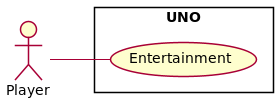
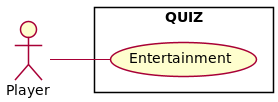
updated to quiz

Changed region(s): [[0.5755, 0.1176, 0.7482, 0.2353]]

diff --git a/asciidocs/index.html b/asciidocs/index.html
@@ -457,12 +457,11 @@ body.book #toc,body.book #preamble,body.book h1.sect0,body.book .sect1>h2{page-b
 <li><a href="#_projektbeschreibung">6. Projektbeschreibung</a></li>
 <li><a href="#_meilensteine">7. Meilensteine</a>
 <ul class="sectlevel2">
-<li><a href="#_uno_core">7.1. UNO Core:</a></li>
-<li><a href="#_ui_design">7.2. UI Design</a></li>
-<li><a href="#_ui_code">7.3. UI Code</a></li>
-<li><a href="#_statistik_datenbank">7.4. Statistik Datenbank</a></li>
-<li><a href="#_farbenblinden_modus">7.5. Farbenblinden Modus (+)</a></li>
-<li><a href="#_verschiedene_spielmodi">7.6. Verschiedene Spielmodi (+)</a></li>
+<li><a href="#_recherche">7.1. Recherche</a></li>
+<li><a href="#_logik_umsetzung">7.2. Logik umsetzung</a></li>
+<li><a href="#_ui_design">7.3. UI Design</a></li>
+<li><a href="#_ui_code">7.4. UI Code</a></li>
+<li><a href="#_statistik_datenbank">7.5. Statistik Datenbank</a></li>
 </ul>
 </li>
 <li><a href="#_projektressourcen">8. Projektressourcen</a></li>
@@ -499,7 +498,7 @@ body.book #toc,body.book #preamble,body.book h1.sect0,body.book .sect1>h2{page-b
 <h2 id="_projektbezeichnung">1. Projektbezeichnung</h2>
 <div class="sectionbody">
 <div class="paragraph">
-<p>UNO Kartenspiel</p>
+<p>Quiz</p>
 </div>
 </div>
 </div>
@@ -525,8 +524,8 @@ HTL Leonding</p>
 <h2 id="_projektendergebnis">4. Projektendergebnis</h2>
 <div class="sectionbody">
 <div class="paragraph">
-<p>Alle Regeln des UNO-Spieles sollten eingehalten werden, und dass Programm soll fair gehalten werden.
-Ein Nebenergebnis des Spieles ist strategisches und taktisches Denken.</p>
+<p>Das Spiel soll informationsreich sein und Spaß machen.
+Ein Nebenergebnis des Spieles ist Aufmerksamkeit auf unsere Umwelt zu machen, denn die Fragen im Quiz beziehen sich darauf.</p>
 </div>
 </div>
 </div>
@@ -534,7 +533,7 @@ Ein Nebenergebnis des Spieles ist strategisches und taktisches Denken.</p>
 <h2 id="_projektziel">5. Projektziel</h2>
 <div class="sectionbody">
 <div class="paragraph">
-<p>Ein funktionierendes UNO-Program, dass dem Spieler Spaß und Unterhaltung bietet.</p>
+<p>Ein funktionierendes Quiz, dass dem Spieler Spaß, Unterhaltung und Informationen bietet.</p>
 </div>
 <div class="paragraph">
 <p>Ziele:</p>
@@ -542,19 +541,13 @@ Ein Nebenergebnis des Spieles ist strategisches und taktisches Denken.</p>
 <div class="ulist">
 <ul>
 <li>
-<p>Funktionierendes Spiel:</p>
+<p>Funktionierendes Spiel</p>
 </li>
 <li>
 <p>Spielstand mit Highscore</p>
 </li>
 <li>
 <p>Statistiken</p>
-</li>
-<li>
-<p>(+) Farbenblinden Modus</p>
-</li>
-<li>
-<p>(+) verschiedene Spielmodi</p>
 </li>
 </ul>
 </div>
@@ -574,10 +567,7 @@ Ein Nebenergebnis des Spieles ist strategisches und taktisches Denken.</p>
 <h2 id="_projektbeschreibung">6. Projektbeschreibung</h2>
 <div class="sectionbody">
 <div class="paragraph">
-<p>UNO ist eines der bekanntesten Kartenspiele.
-Es gibt verschiedene Varianten davon, und mann kann es
-auf viele verschiedene Arten spielen. Dieses Projekt setzt
-das Spiel digital um.</p>
+<p>Dieses Quiz-Spiel soll dem Nutzer unglaubliche Fakten zu unserer Umwelt liefern.</p>
 </div>
 </div>
 </div>
@@ -585,43 +575,35 @@ das Spiel digital um.</p>
 <h2 id="_meilensteine">7. Meilensteine</h2>
 <div class="sectionbody">
 <div class="sect2">
-<h3 id="_uno_core">7.1. UNO Core:</h3>
+<h3 id="_recherche">7.1. Recherche</h3>
 <div class="paragraph">
-<p>Uno auf der Commandline, mit den basic features, wie verschiedene
-Karten, etl. Bots</p>
+<p>Informative Fakten über die Umwelt finden und diese in Fragen und Antworten formulieren.</p>
 </div>
 </div>
 <div class="sect2">
-<h3 id="_ui_design">7.2. UI Design</h3>
+<h3 id="_logik_umsetzung">7.2. Logik umsetzung</h3>
+<div class="paragraph">
+<p>Grundlegende Aktionen, wie Beispielsweise Fragen abrufen und diese dann über die Command Line beantworten.</p>
+</div>
+</div>
+<div class="sect2">
+<h3 id="_ui_design">7.3. UI Design</h3>
 <div class="paragraph">
 <p>SVG Komponenten und Grunddesign des Programmes<br>
 <a href="https://www.figma.com/file/nTd0iuiqRUMpcepvEPDQ0Z/UNO">Figma UI Concepts</a></p>
 </div>
 </div>
 <div class="sect2">
-<h3 id="_ui_code">7.3. UI Code</h3>
+<h3 id="_ui_code">7.4. UI Code</h3>
 <div class="paragraph">
 <p>Umsetzen des UI Designs in JavaFX.</p>
 </div>
 </div>
 <div class="sect2">
-<h3 id="_statistik_datenbank">7.4. Statistik Datenbank</h3>
+<h3 id="_statistik_datenbank">7.5. Statistik Datenbank</h3>
 <div class="paragraph">
 <p>Datenbank für Statistik (Gewinne, Spielzeit, gespielte Spiele)
 in Java mithilfe von JDBC.</p>
-</div>
-</div>
-<div class="sect2">
-<h3 id="_farbenblinden_modus">7.5. Farbenblinden Modus (+)</h3>
-<div class="paragraph">
-<p>Ein Modus, der das Spielen des Spieles selbst für
-farbenblinde Personen einfach macht.</p>
-</div>
-</div>
-<div class="sect2">
-<h3 id="_verschiedene_spielmodi">7.6. Verschiedene Spielmodi (+)</h3>
-<div class="paragraph">
-<p>neue Spielmodi mit eigens festgelegten Abläufen und Regeln.</p>
 </div>
 </div>
 </div>
@@ -641,16 +623,13 @@ farbenblinde Personen einfach macht.</p>
 <p>JDBC</p>
 </li>
 <li>
-<p>Datenbank (Oracle DB, MySQL)</p>
+<p>Datenbank (Oracle DB, MySQL, Postgres)</p>
 </li>
 <li>
-<p>Docker?</p>
+<p>Docker</p>
 </li>
 <li>
 <p><a href="https://www.figma.com/file/nTd0iuiqRUMpcepvEPDQ0Z/UNO">Figma</a></p>
-</li>
-<li>
-<p>Illustrator</p>
 </li>
 <li>
 <p>IntelliJ Idea</p>
@@ -708,8 +687,16 @@ farbenblinde Personen einfach macht.</p>
 </thead>
 <tbody>
 <tr>
+<td class="tableblock halign-left valign-top"><p class="tableblock">Thomas Spindler</p></td>
+<td class="tableblock halign-left valign-top"><p class="tableblock">Projektleitung, Programmierung</p></td>
+</tr>
+<tr>
+<td class="tableblock halign-left valign-top"><p class="tableblock">Lydia Reiter</p></td>
+<td class="tableblock halign-left valign-top"><p class="tableblock">Design, Programmierung</p></td>
+</tr>
+<tr>
 <td class="tableblock halign-left valign-top"><p class="tableblock">Elias Just</p></td>
-<td class="tableblock halign-left valign-top"><p class="tableblock">Datenbanken, Programmierung</p></td>
+<td class="tableblock halign-left valign-top"><p class="tableblock">Datenbank, Programmierung</p></td>
 </tr>
 <tr>
 <td class="tableblock halign-left valign-top"><p class="tableblock">David Thaller</p></td>
@@ -718,14 +705,6 @@ farbenblinde Personen einfach macht.</p>
 <tr>
 <td class="tableblock halign-left valign-top"><p class="tableblock">Sebastian Lautischer</p></td>
 <td class="tableblock halign-left valign-top"><p class="tableblock">Design, Management</p></td>
-</tr>
-<tr>
-<td class="tableblock halign-left valign-top"><p class="tableblock">Lydia Reiter</p></td>
-<td class="tableblock halign-left valign-top"><p class="tableblock">Design, Programmierung</p></td>
-</tr>
-<tr>
-<td class="tableblock halign-left valign-top"><p class="tableblock">Thomas Spindler</p></td>
-<td class="tableblock halign-left valign-top"><p class="tableblock">Projektleitung, Programmierung, JavaFX</p></td>
 </tr>
 </tbody>
 </table>
@@ -765,7 +744,7 @@ farbenblinde Personen einfach macht.</p>
 <div class="sectionbody">
 <div class="imageblock">
 <div class="content">
-<img src="images/class-diagramm.png" alt="class diagramm" width="245" height="423">
+<img src="images/class-diagramm.png" alt="class diagramm" width="635" height="570">
 </div>
 </div>
 </div>
@@ -784,7 +763,7 @@ farbenblinde Personen einfach macht.</p>
 <div id="footer">
 <div id="footer-text">
 Version 1.0.0<br>
-Last updated 2022-03-22 08:12:38 +0100
+Last updated 2022-03-23 20:48:02 +0100
 </div>
 </div>
 </body>
